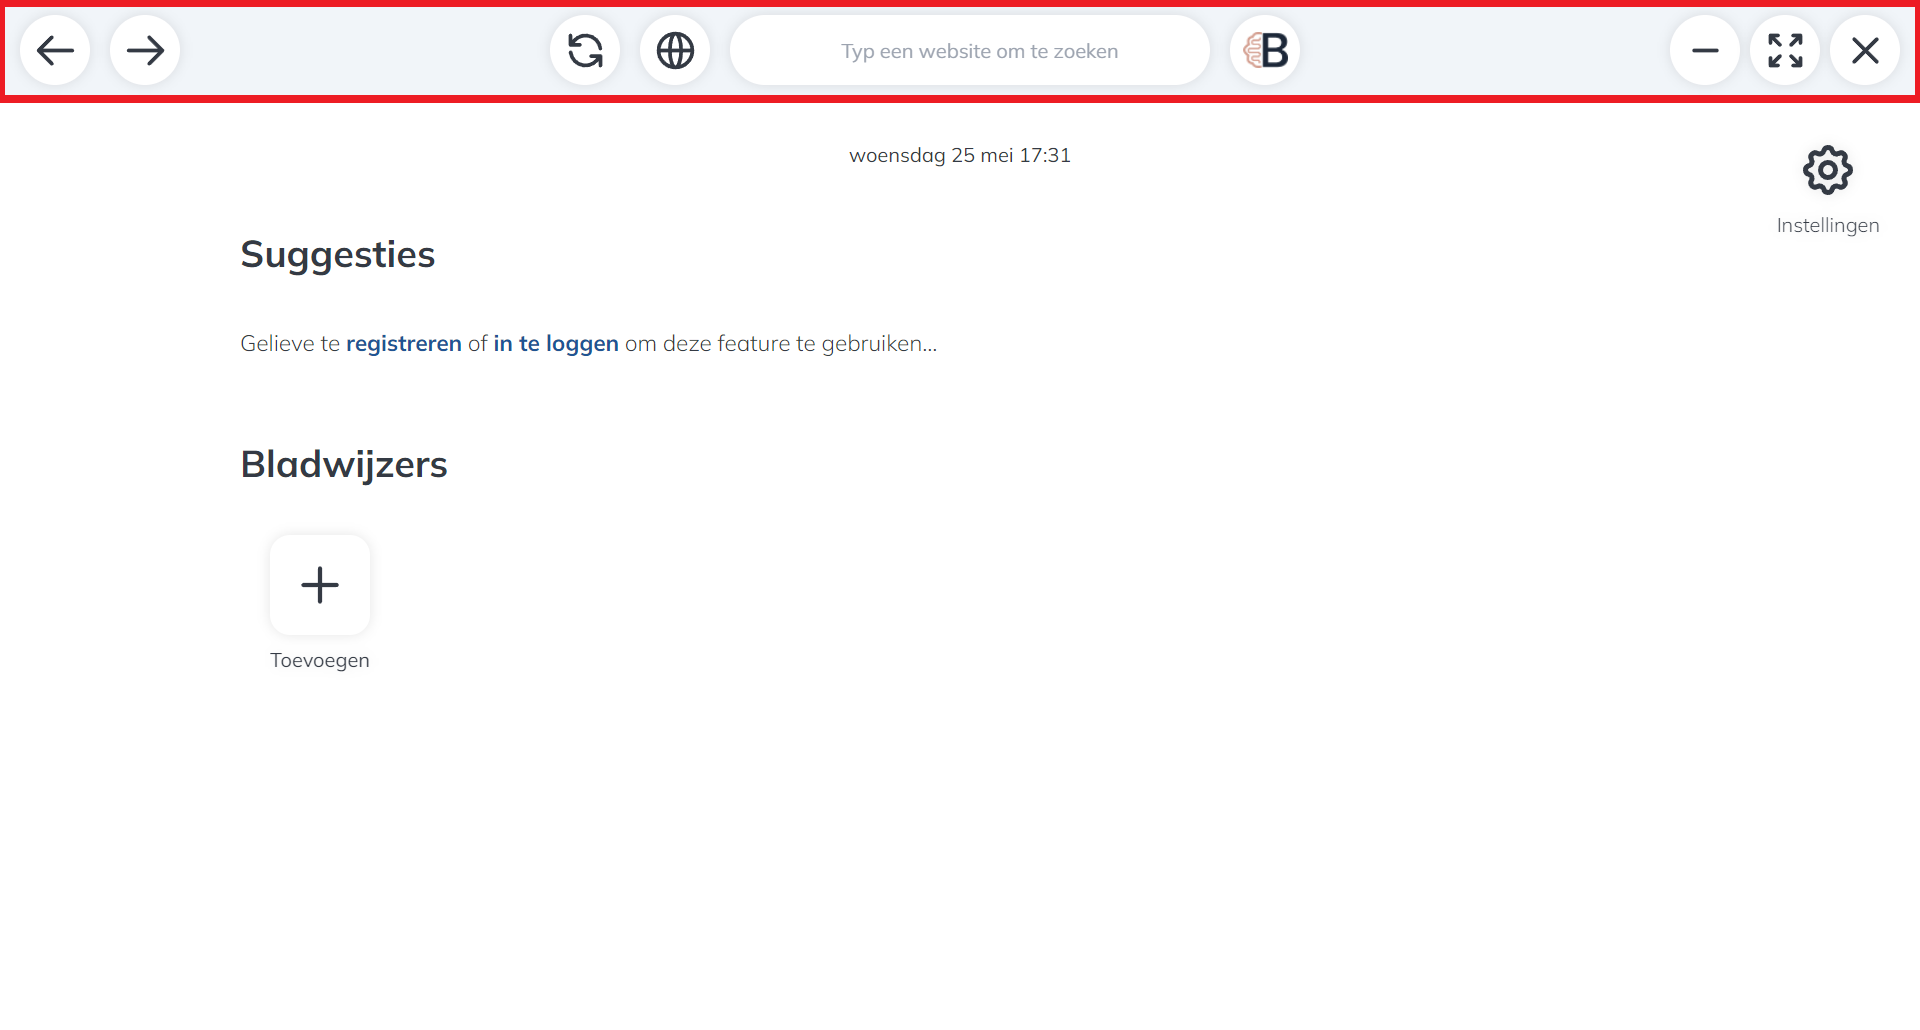
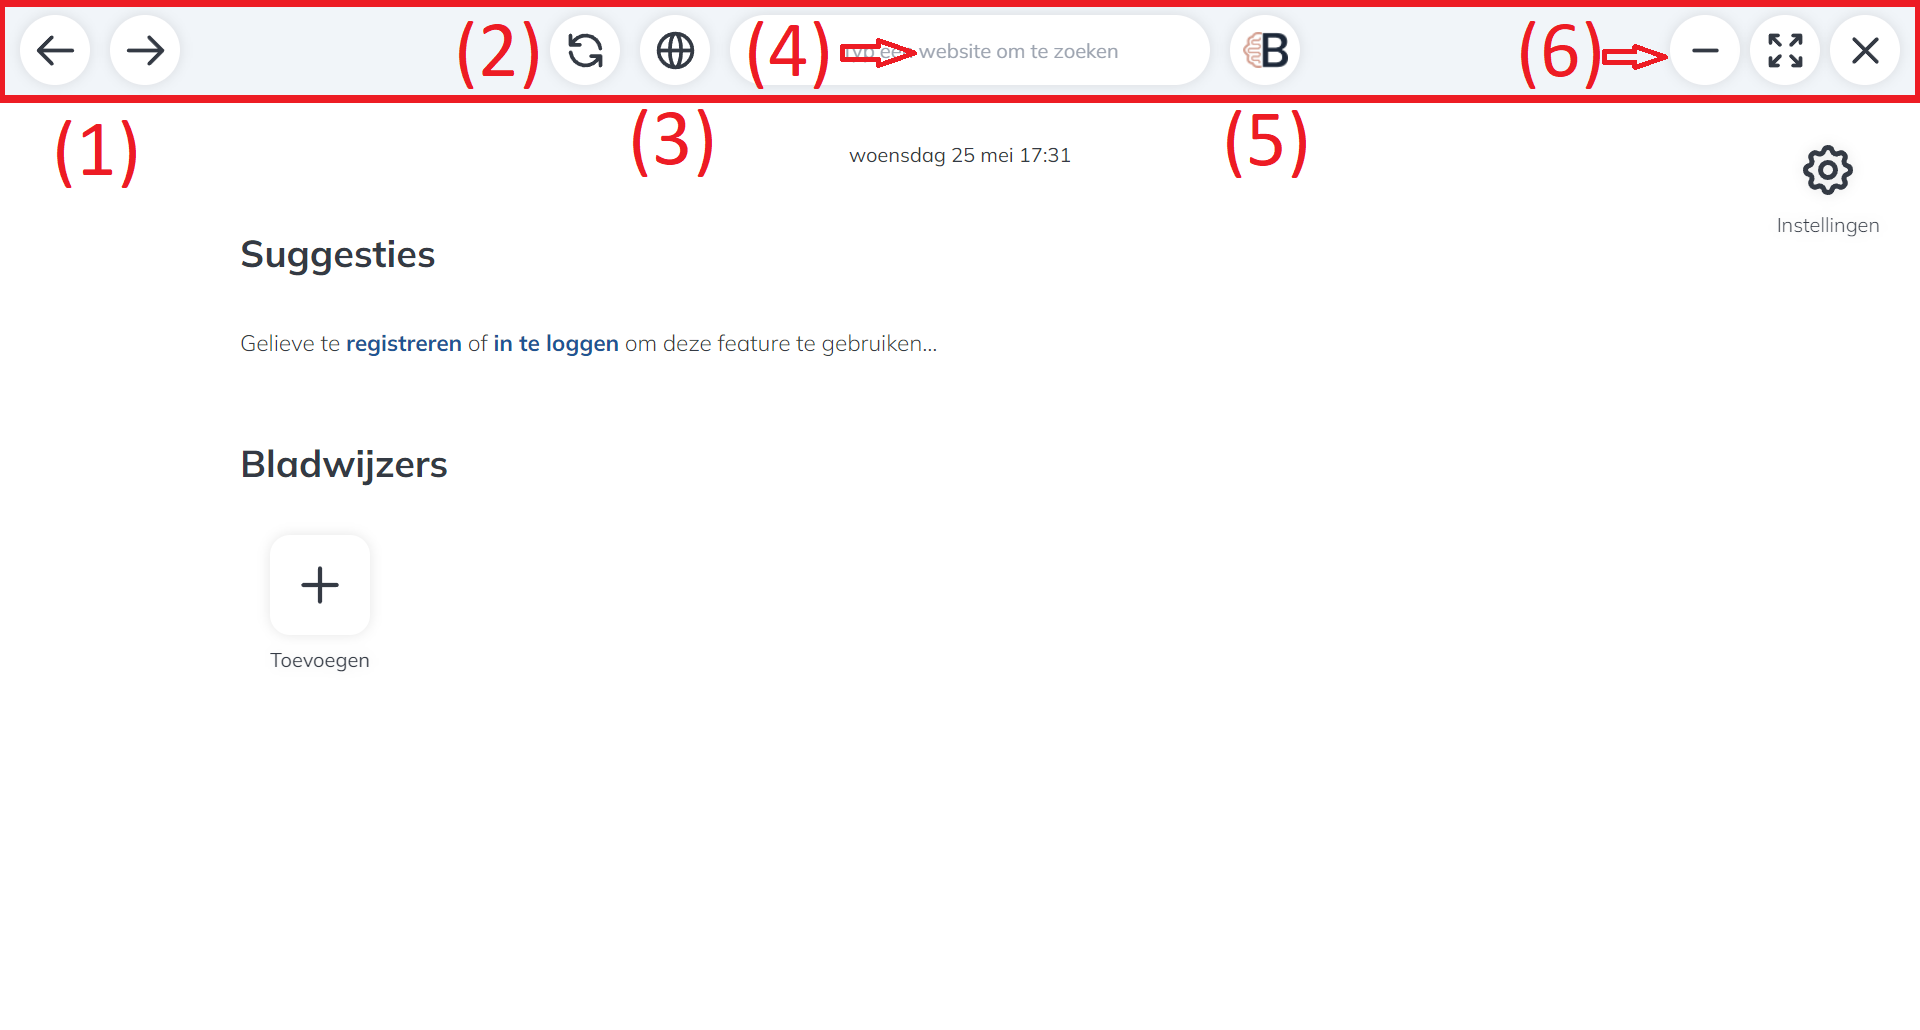
feat(onboarding): finished tutorial markup + first launch & manual rendering

diff --git a/src/components/Tutorial.jsx b/src/components/Tutorial.jsx
@@ -1,26 +1,34 @@
 import React, { useState } from 'react';
+import { XIcon } from '@heroicons/react/outline';
 
-const Tutorial = () => {
+const Tutorial = ({ setTutorial }) => {
 	const [step, setStep] = useState(1);
 	const content = [
 		{
 			step: 1,
-			imgLink: '/assets/img/logo-brainweb.png',
-			text: ['Welkom in de Brainhouse browser!'],
+			imgLink: '/assets/img/tutorial/tut-loc.png',
+			title: 'Welkom in de Brainhouse browser!',
+			text: [
+				`Dit venster zal je een rondleiding geven in de basiswerking van onze browser.`,
+				`Je kan onderaan op de knoppen klikken om van stap te veranderen. Je kan ook op de bollen klikken om stappen 
+        over te slaan of om terug te keren naar een specifieke stap.`,
+				`Bovenaan staat een kruisje zodat je het venster gewoon kan sluiten als je deze rondleiding niet nodig hebt. 
+        Als je de rondleiding opnieuw wilt doorlopen, kan je hier in de instellingen een knop voor vinden (zie afbeelding).`,
+			],
 		},
 		{
 			step: 2,
 			imgLink: '/assets/img/tutorial/tut-1.png',
 			text: [
-				`Hier staat de navigatie in het rood omkaderd. Dit is net hetzelfde als in andere browsers.
-        Je kunt terug en vooruit navigeren door op de pijlen te klikken.
-        Je kan ook de pagina herladen door op het icoontje met de ronde pijlen te klikken.
-        Naast de pijlen en herlaadknop, staat de thuisknop. Dit is om terug te keren naar het
-        Dashboard die je ziet wanneer de browser opent. `,
-				`In het midden zie je de zoekbalk, daar kan je zoeken naar websites. `,
-				`Rechts van de zoekbalk, staat het Brainweb-logo. Als je hierop klikt, wordt je naar de 
+				`Hier staat de navigatie in het rood omkaderd. Dit is net hetzelfde als in andere browsers.`,
+				`(1) Je kan terug en vooruit navigeren door op de pijlen te klikken.`,
+				`(2) Je kan ook de pagina herladen door op het icoontje met de ronde pijlen te klikken (herlaadknop).`,
+				`(3) Naast de herlaadknop, staat de thuisknop. Als je aan het surfen bent, zal dit je naar het Dashboard
+        brengen. Als je op het Dashboard zit, zal dit je naar de website brengen die open staat.`,
+				`(4) In het midden zie je de zoekbalk, daar kan je zoeken naar websites.`,
+				`(5) Rechts van de zoekbalk, staat het Brainweb-logo. Als je hierop klikt, wordt je naar de 
         instellingen van de Brainweb-hulpfuncties gebracht. Meer hierover in volgende stap van de gebruiksaanwijzing.`,
-				`Volledig rechts vind je de knoppen om de browser te minimaliseren, full-screen te zetten en te sluiten.`,
+				`(6) Volledig rechts vind je de knoppen om de browser te minimaliseren, full-screen te zetten en te sluiten.`,
 			],
 		},
 		{
@@ -36,9 +44,11 @@ const Tutorial = () => {
 			step: 4,
 			imgLink: '/assets/img/tutorial/scrollhulp.png',
 			text: [
-				`De scrollhulp biedt hulp op de pagina's die je bezoekt. Als je deze functie aanzet en je opent een webpagina, 
-        zal er rechts onderaan het scherm een vierkantje verschijnen met 2 pijlen en een sleep-symbool in het midden.
-        Als je over 1 van deze pijlen zweeft met je muis, zal de pagina omhoog of omlaag worden gescrolld. Als je klikt, zal 
+				`De scrollhulp biedt hulp op de pagina's die je bezoekt.`,
+				`Als je deze functie aanzet en je opent een webpagina, zal er rechts onderaan het scherm een vierkantje verschijnen 
+        met 2 pijlen en een sleep-symbool in het midden.`,
+        `Je kan de scrollsnelheid ook aanpassen door op de plus -en minknop te klikken.`,
+				`Als je over 1 van deze pijlen zweeft met je muis, zal de pagina omhoog of omlaag worden gescrolld. Als je klikt, zal 
         de pagina wat sneller scrollen. `,
 			],
 		},
@@ -54,42 +64,64 @@ const Tutorial = () => {
 			step: 6,
 			imgLink: '/assets/img/tutorial/tracking.png',
 			text: [
-				`De scrollhulp biedt hulp op de pagina's die je bezoekt. Als je deze functie aanzet en je opent een webpagina, 
-        zal er rechts onderaan het scherm een vierkantje verschijnen met 2 pijlen en een sleep-symbool in het midden.
-        Als je over 1 van deze pijlen zweeft met je muis, zal de pagina omhoog of omlaag worden gescrolld. Als je klikt, zal 
-        de pagina wat sneller scrollen. `,
+				`De muis-tracking zal muisgegevens verzamelen op websites die je bezoekt.`,
+				`Deze gegevens worden gebruikt om voorspellingen te maken over waar je naartoe zou willen met je muis. In de volgende stap 
+        lees je meer over de voorspellingen.`,
+        `Zoals er naast de knop staat, moet je wel inloggen om dit te kunnen gebruiken. Dit omdat we de gegevens moeten opslaan 
+        in onze database en je hier een account voor nodig hebt.`,
 			],
 		},
 		{
 			step: 7,
 			imgLink: '/assets/img/tutorial/predictions.png',
 			text: [
-				`De scrollhulp biedt hulp op de pagina's die je bezoekt. Als je deze functie aanzet en je opent een webpagina, 
-        zal er rechts onderaan het scherm een vierkantje verschijnen met 2 pijlen en een sleep-symbool in het midden.
-        Als je over 1 van deze pijlen zweeft met je muis, zal de pagina omhoog of omlaag worden gescrolld. Als je klikt, zal 
-        de pagina wat sneller scrollen. `,
+				`Zoals in vorige stap werd gezegd, kan je hier de voorspellingen aan of uit zetten. Er wordt voorspeld waar je naartoe
+        zou willen gaan met je muis en dan worden bepaalde elementen dichter bij de muis getrokken of vergroot.`,
 			],
 		},
+    {
+      step: 8,
+      imgLink: '/assets/img/logo-brainweb.png',
+      text: [
+        `Tot zo ver de rondleiding. Aarzel niet om ons feedback te geven in de instellingen van de browser!`,
+        `Wij hopen alvast dat je de browser nuttig vindt en dat het je kan helpen bij het surfen op het web.`,
+        `Tot slot, bedankt voor je interesse in onze browser!`,
+      ],
+    },
 	];
 
 	return (
 		<div
 			id="tutor"
-			className="absolute left-0 right-0 top-0 bottom-0 z-[999] m-auto flex h-[45rem] w-[35rem] flex-col rounded-xl bg-skin-dark p-5 pb-7"
+			className="absolute left-0 right-0 top-0 bottom-0 z-[999] m-auto flex h-[48rem] w-[35rem] flex-col rounded-xl bg-skin-dark p-5 pb-7"
 		>
 			<div className="flex flex-grow flex-col">
-				<div className="h-[20rem]">
-					<img src={`${content[step - 1].imgLink}`} className="mx-auto object-cover pb-10" />
+				<div className="w-full">
+					<XIcon
+						className="float-right w-8 cursor-pointer text-[#cbd5e1]"
+						onClick={() => {
+							setTutorial(false);
+						}}
+					/>
 				</div>
-				{/* {content[step - 1].text.forEach((par) => {
-          return (<p className="text-[#cbd5e1]">{par}</p>);
-        })} */}
-				<p className="text-[#cbd5e1]">{content[step - 1].text}</p>
+				<div className="h-[17rem] mb-2">
+					<img src={`${content[step - 1].imgLink}`} className="mx-auto object-cover" />
+				</div>
+				<h2 className={`${content[step - 1].title ? 'block' : 'hidden'} text-xl font-bold text-[#cbd5e1] mb-5`}>
+					{content[step - 1].title}
+				</h2>
+				{content[step - 1].text.map((par, index) => {
+					return (
+						<p key={index} className="mb-1 text-[#cbd5e1]">
+							{par}
+						</p>
+					);
+				})}
 			</div>
 			<div className="relative flex justify-center">
 				{step > 1 ? (
 					<button
-						className="absolute left-0 -top-4 rounded-md bg-skin-medium p-2 px-4"
+						className="absolute left-0 -top-2 rounded-md bg-skin-medium p-2 px-4"
 						onClick={() => {
 							setStep(step - 1);
 						}}
@@ -104,16 +136,21 @@ const Tutorial = () => {
 						return (
 							// eslint-disable-next-line react/jsx-key
 							<div
-								className={`h-3 w-3 transition duration-300 ease-in-out ${
+								className={`flex h-5 w-5 cursor-pointer items-center justify-center transition duration-300 ease-in-out ${
 									item.step == step ? 'bg-skin-medium' : 'bg-black opacity-[0.22]'
 								} mx-0.5 rounded-full`}
-							></div>
+								onClick={() => {
+									setStep(item.step);
+								}}
+							>
+								<p className={`text-xs ${item.step == step ? 'text-black' : 'text-white'}`}>{item.step}</p>
+							</div>
 						);
 					})}
 				</div>
 				{step < content.length ? (
 					<button
-						className="absolute right-0 -top-4 rounded-md bg-skin-medium p-2 px-4"
+						className="absolute right-0 -top-2 rounded-md bg-skin-medium p-2 px-4"
 						onClick={() => {
 							setStep(step + 1);
 						}}
@@ -122,9 +159,9 @@ const Tutorial = () => {
 					</button>
 				) : (
 					<button
-						className="absolute right-0 -top-4 rounded-md bg-skin-medium p-2 px-4"
+						className="absolute right-0 -top-2 rounded-md bg-skin-medium p-2 px-4"
 						onClick={() => {
-							document.getElementById('tutor').classList.add('hidden');
+							setTutorial(false);
 						}}
 					>
 						Sluiten

diff --git a/app/index.js b/app/index.js
@@ -5,6 +5,7 @@ const { autoUpdater } = require('electron-updater');
 const fs = require('fs');
 
 const isDev = require('electron-is-dev');
+const { log } = require('console');
 
 // Handle creating/removing shortcuts on Windows when installing/uninstalling.
 if (require('electron-squirrel-startup')) app.quit();
@@ -135,24 +136,6 @@ app.whenReady().then(() => {
 	} else {
 		createLoadingScreen();
 	}
-
-	// detect first launch
-	const firstTimeFilePath = path.resolve(app.getPath('userData'), '.first-time');
-	let isFirstTime;
-	try {
-		fs.closeSync(fs.openSync(firstTimeFilePath, 'wx'));
-		isFirstTime = true;
-	} catch (err) {
-		if (err.code === 'EEXIST') {
-			isFirstTime = false;
-		} else {
-			throw err;
-		}
-	}
-
-  if (isFirstTime) {
-    mainWindow.webContents.send('tutorialReply', true);
-  }
 });
 
 // Quit when all windows are closed, except on macOS. There, it's common
@@ -310,6 +293,12 @@ ipcMain.on('alert-message-history', (event, arg) => {
 	view.webContents.send('alert-message-historyReply', arg);
 });
 
-ipcMain.on('tutorial', (event, arg) => {
-  mainWindow.webContents.send('tutorialReply', arg);
+ipcMain.on('tutorial', () => {
+  const firstTimeFilePath = path.resolve(app.getPath('userData'), '.first-time');
+  try {
+    fs.closeSync(fs.openSync(firstTimeFilePath, 'wx'));
+    mainWindow.webContents.send('renderTutorial');		
+  } catch (err) {
+    console.log(err);
+  }
 });

diff --git a/src/components/Dashboard/Dashboard.jsx b/src/components/Dashboard/Dashboard.jsx
@@ -4,6 +4,7 @@ import MediumTile from './Tiles/MediumTile';
 import Title from '../Typography/Title';
 import OnType from './OnType';
 import Clock from '../Clock';
+import Tutorial from '../Tutorial';
 
 import { useNavigate, useLocation, Link } from 'react-router-dom';
 import useLocalStorageState from '../../hooks/useLocalStorageState';
@@ -26,6 +27,7 @@ const Dashboard = ({ frecency }) => {
 	const [showAddBookmarkModal, setShowAddBookmarkModal] = useState(false);
 	const [currentBookmark, setCurrentBookmark] = useState([]);
 	const [bookmarks, setBookmarks] = useLocalStorageState('bookmarks', []);
+  const [tutorial, setTutorial] = useState(false);
 
 	let params = new URLSearchParams(location.search);
 
@@ -117,11 +119,17 @@ const Dashboard = ({ frecency }) => {
 			window.api.send('alert-message-bookmark', addBookmark(...bookmarkData));
 		});
 
-		return () => window.api.removeAllListeners('bookmarkReply');
+    window.api.recieve('renderTutorial', () => {
+      setTutorial(true);
+      console.log('render tutorial');
+    });
+
+		return () => {window.api.removeAllListeners('bookmarkReply'); window.api.removeAllListeners('renderTutorial');};
 	}, [user, addBookmark]);
 
 	return !params.get('search') ? (
 		<>
+      {tutorial && <Tutorial setTutorial={setTutorial} />}
 			{showAddBookmarkModal && (
 				<AddBookmarkModal
 					handleAddBookmark={(bookmark) => addBookmark(bookmark)}

diff --git a/src/components/Settings/Settings.jsx b/src/components/Settings/Settings.jsx
@@ -31,6 +31,8 @@ const Settings = () => {
 
 	let navigate = useNavigate();
 
+  const [tutorial, setTutorial] = useState(false);
+
 	useEffect(() => {
 		const getUserDevice = async () => {
 			if (user) {
@@ -106,8 +108,7 @@ const Settings = () => {
 
 	return (
 		<div className="grid grid-cols-[minmax(12rem,16rem),1fr] gap-4">
-      <Tutorial />
-      {/* {window.api.recieve('tutorialReply') && <Tutorial />} */}
+      { tutorial && <Tutorial setTutorial={setTutorial} /> }
 			<div className="mi z-10 flex flex-col gap-4 bg-slate-100 drop-shadow-2xl">
 				<Title className="my-8 text-center">Instellingen</Title>
 				{tabs.map((tab, index) => (
@@ -153,7 +154,7 @@ const Settings = () => {
 					/>
 					<Route path="extension" element={<ExtensionSetting />} />
 					<Route path="history" element={<HistorySetting />} />
-					<Route path="FAQ" element={<FAQSetting />} />
+					<Route path="FAQ" element={<FAQSetting setTutorial={setTutorial} />} />
 					<Route path="about" element={<AboutSetting />} />
 				</Routes>
 			</div>

diff --git a/src/components/Settings/components/Pages/FAQSetting.jsx b/src/components/Settings/components/Pages/FAQSetting.jsx
@@ -2,7 +2,7 @@ import React from 'react';
 import Title from '../../../Typography/Title';
 import FAQTile from '../FAQTile';
 
-const FAQSetting = () => {
+const FAQSetting = ({setTutorial}) => {
 	return (
 		<div className="ml-10 h-[calc(100vh-5rem)] overflow-y-scroll pr-10">
 			<Title className="my-8">Veelgestelde vragen</Title>
@@ -11,7 +11,7 @@ const FAQSetting = () => {
 					Hier kunt u meer info vinden over hoe u de browser kan gebruiken. <br />
 					<br /> Klik op de knop hieronder om de tutorial te starten.
 				</p>
-				<button className="mt-10 h-10 rounded-lg bg-dark-blue px-5 text-white" onClick={() => {window.api.send('tutorial')}}>
+				<button className="mt-10 h-10 rounded-lg bg-dark-blue px-5 text-white" onClick={() => {setTutorial(true)}}>
 					Start gebruiksaanwijzing
 				</button>
 			</FAQTile>

diff --git a/src/App.jsx b/src/App.jsx
@@ -21,6 +21,7 @@ const App = () => {
 			window.api.send('toggleWebview', true);
 		});
 
+    window.api.send('tutorial');
 		return () => window.api.removeAllListeners('toggleExtensionRadialReply');
 	}, [navigate]);
 

diff --git a/src/components/Settings/components/FAQTile.jsx b/src/components/Settings/components/FAQTile.jsx
@@ -68,7 +68,7 @@ const FAQTile = ({ title, children, type }) => {
 					/>
 				)}
 			</div>
-			<p>{children}</p>
+			{children}
 		</div>
 	);
 };
